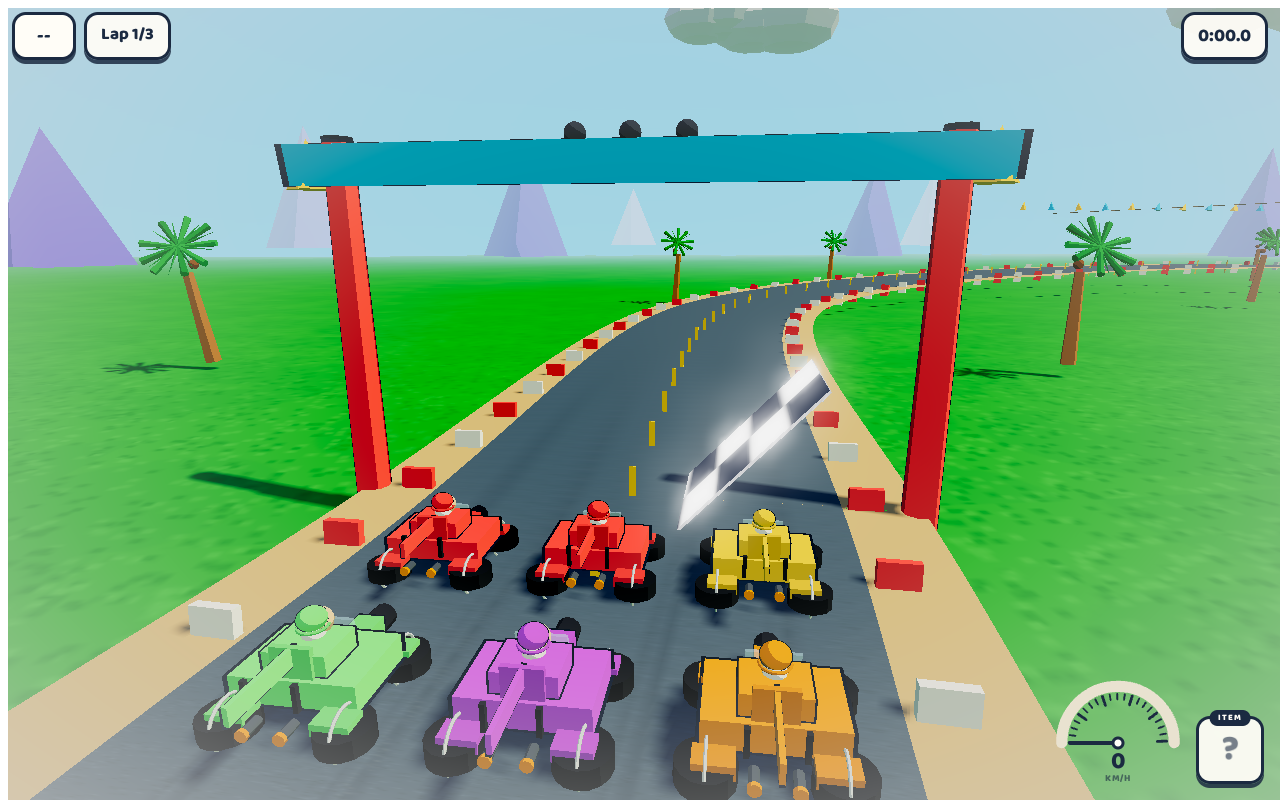
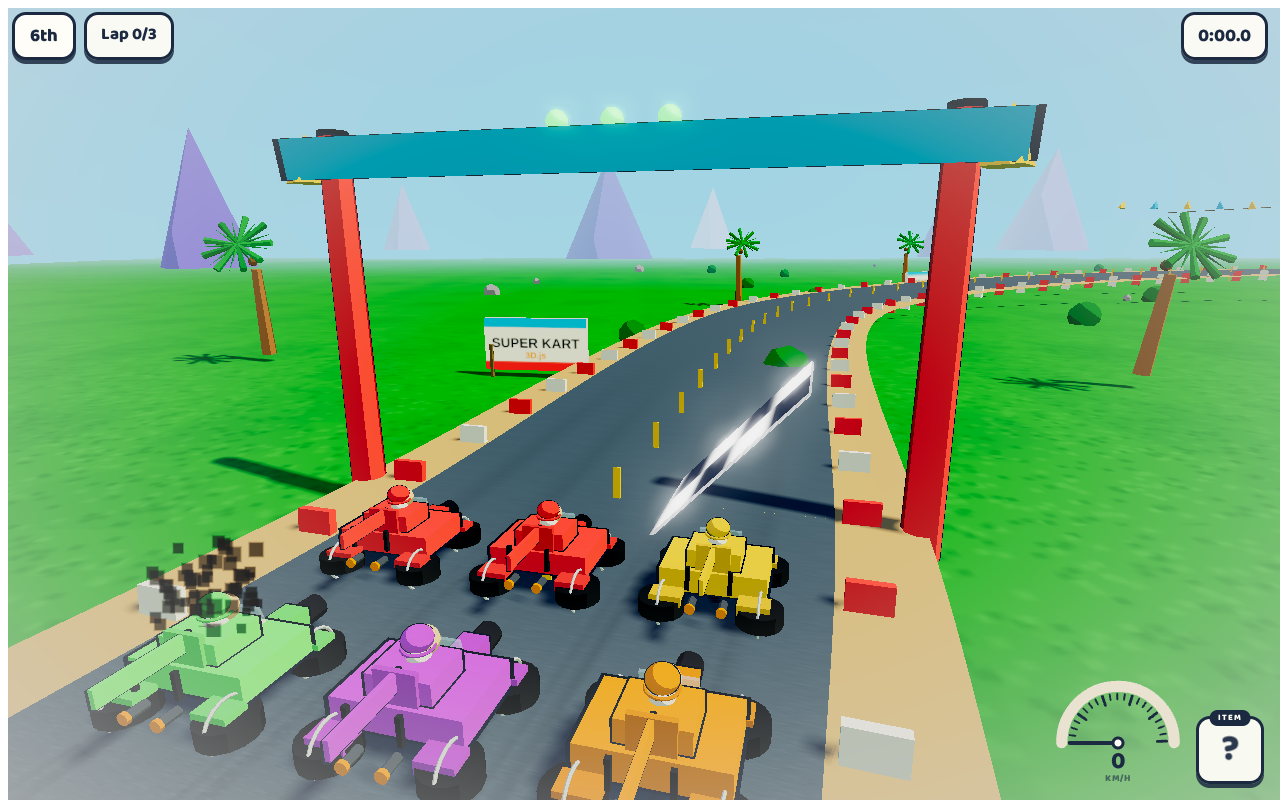
feat(visual): polish round 4 — blob contact shadows, roadside greenery, stronger GO burst (smoke + dual confetti)

diff --git a/src/track/Environment.js b/src/track/Environment.js
@@ -262,6 +262,28 @@ export class Environment {
     bushes.instanceMatrix.needsUpdate = true;
     scene.add(bushes);
 
+    // Roadside greenery: dense bushes hugging the track edge (known spots).
+    const roadside = new THREE.InstancedMesh(bushGeo, bushMat, 40);
+    const edgeSpots = [
+      [-58, 14], [-40, -44], [-14, -60], [26, -62], [52, -42], [64, -10],
+      [56, 26], [30, 52], [-6, 60], [-36, 48], [-58, 26], [-24, -30],
+      [8, -44], [44, -20], [18, 24], [-16, 12], [36, 8], [-48, -8],
+      [12, 44], [-30, 36],
+    ];
+    for (let i = 0; i < edgeSpots.length; i++) {
+      const [x, z] = edgeSpots[i];
+      const off = (i % 2 === 0 ? 1 : -1) * (6.5 + Math.random() * 4);
+      const bx = x + off * 0.7;
+      const bz = z + off * 0.7;
+      dummy.position.set(bx, smoothH(bx, bz) * 0.5 - 0.5 + 0.55, bz);
+      dummy.scale.set(1.2, 0.9 + Math.random() * 0.5, 1.2);
+      dummy.rotation.y = Math.random() * Math.PI;
+      dummy.updateMatrix();
+      roadside.setMatrixAt(i, dummy.matrix);
+    }
+    roadside.instanceMatrix.needsUpdate = true;
+    scene.add(roadside);
+
     // Billboards with the game logo along the track.
     const boardCanvas = document.createElement('canvas');
     boardCanvas.width = 256;

diff --git a/src/entities/Kart.js b/src/entities/Kart.js
@@ -154,6 +154,25 @@ export class Kart {
 
   _buildMesh(color) {
     const KC = CONFIG.kart;
+
+    // Soft blob shadow under the kart (cartoon contact shadow). depthWrite off
+    // + polygonOffset so it never z-fights the asphalt.
+    const blob = new THREE.Mesh(
+      new THREE.CircleGeometry(1.15, 18),
+      new THREE.MeshBasicMaterial({
+        color: 0x000000,
+        transparent: true,
+        opacity: 0.3,
+        depthWrite: false,
+        polygonOffset: true,
+        polygonOffsetFactor: -2,
+      })
+    );
+    blob.rotation.x = -Math.PI / 2;
+    blob.position.y = 0.02;
+    blob.renderOrder = 1;
+    this.group.add(blob);
+
     const body = this._mat(color);
     const bodyDark = this._mat(new THREE.Color(color).multiplyScalar(0.82).getHex());
     // keep refs so the player can repaint (setBodyColor)

diff --git a/src/main.js b/src/main.js
@@ -348,11 +348,12 @@ loop.start((dt, t) => {
         // Start burst: tire smoke at every kart + confetti over the grid.
         for (const k of raceManager.karts) {
           if (!k.state) continue;
-          particles.emit('exhaust', k.state.position, { count: 14, color: 0xcfd6e0, speed: 2.6 });
+          particles.emit('exhaust', k.state.position, { count: 22, color: 0xcfd6e0, speed: 3.0 });
         }
         const gridKart = raceManager.karts[Math.floor(raceManager.karts.length / 2)];
         if (gridKart && gridKart.state) {
-          particles.emit('confetti', gridKart.state.position, { count: 60 });
+          particles.emit('confetti', gridKart.state.position, { count: 90 });
+          particles.emit('confetti', gridKart.state.position, { count: 70, color: 0xffd166 });
         }
       }
     }
